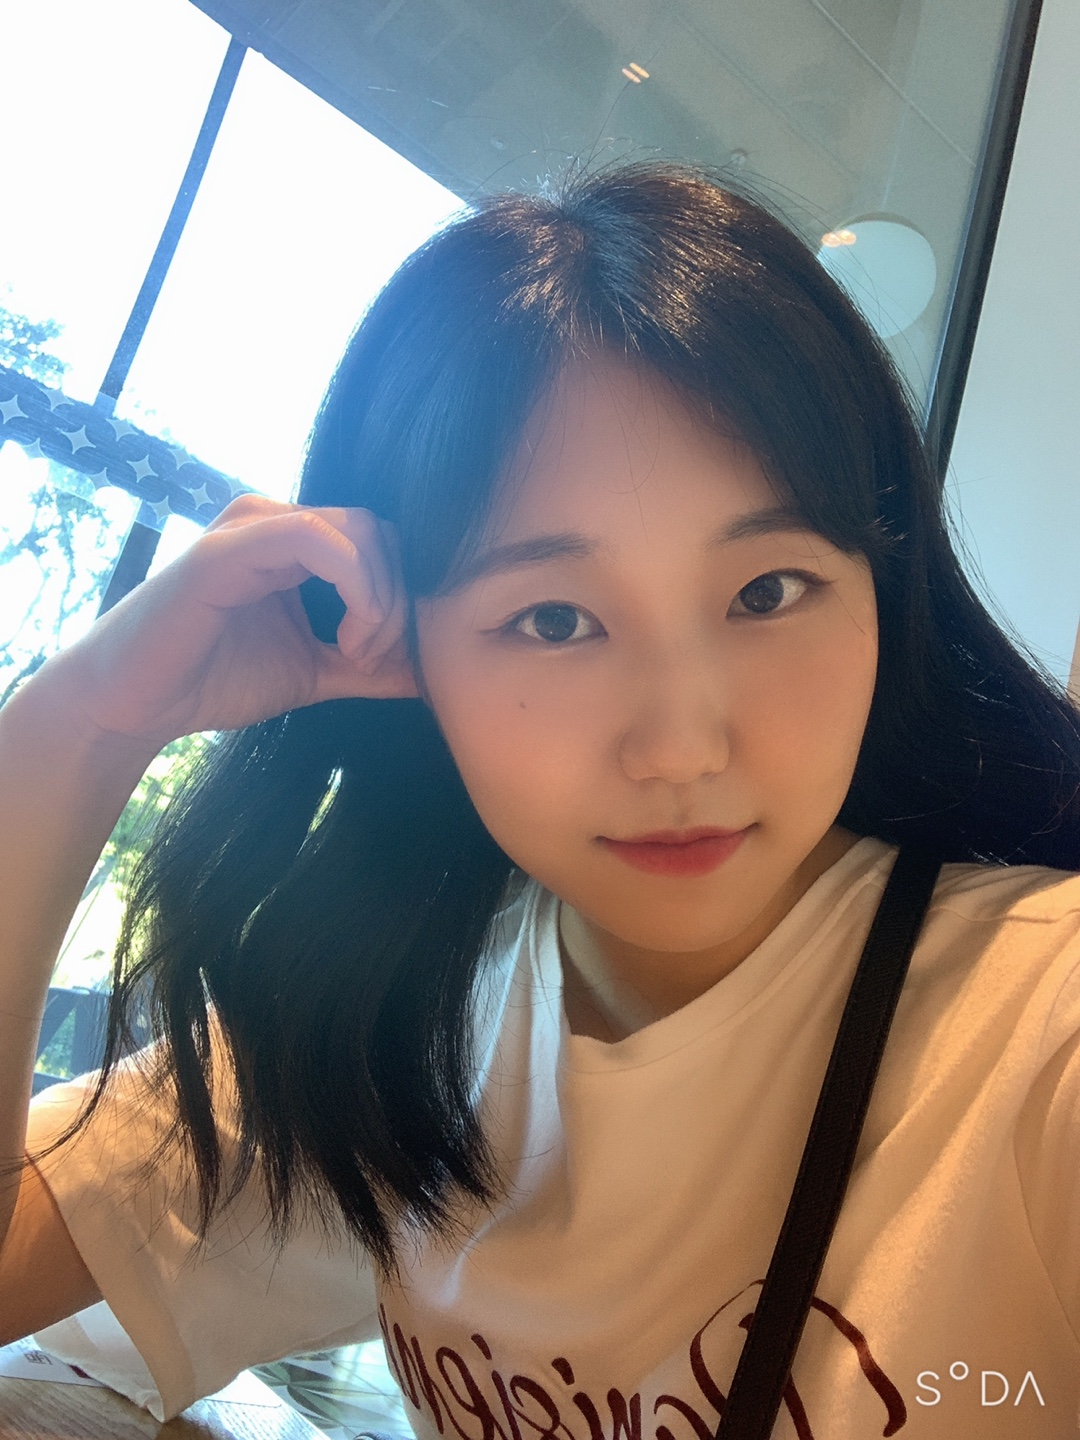
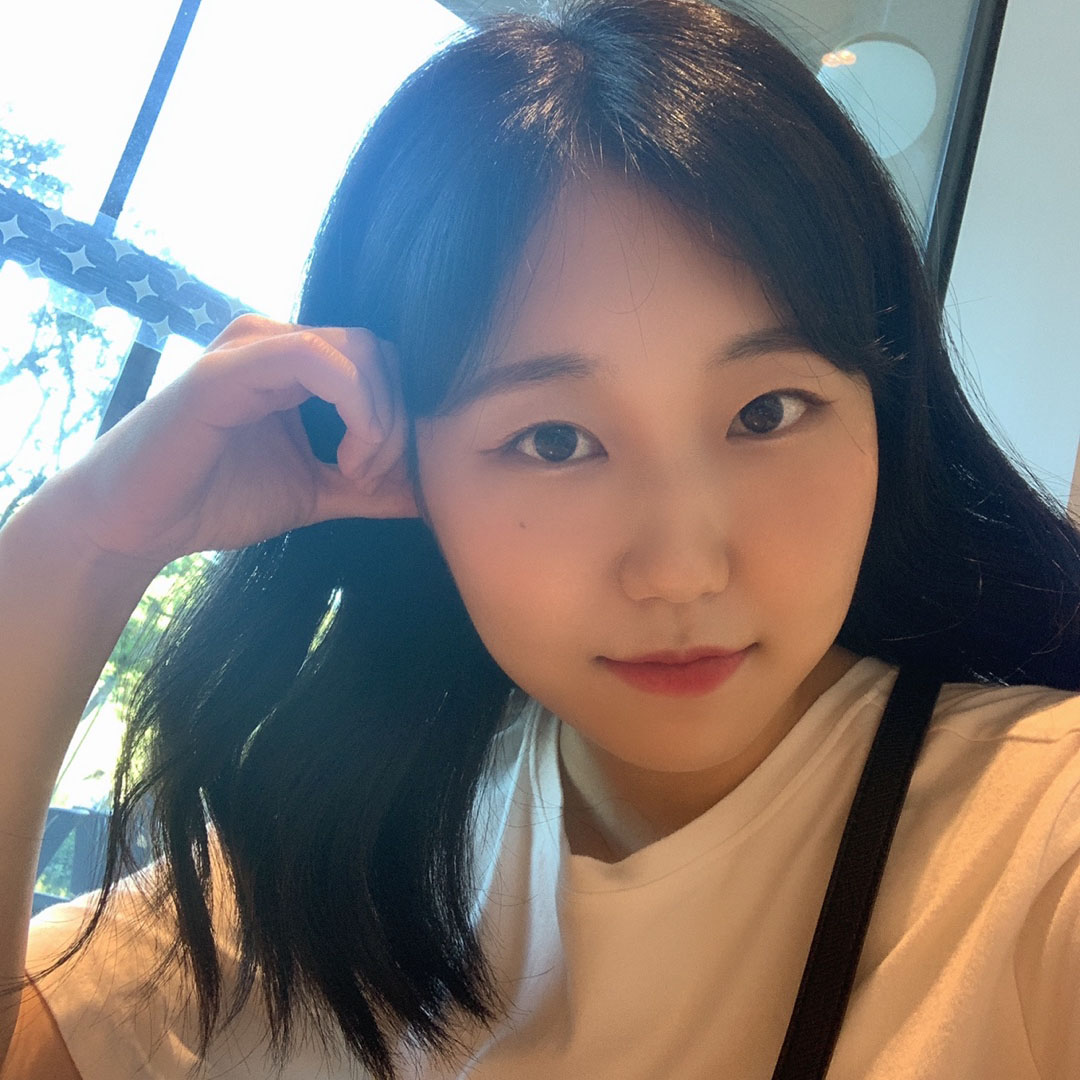
CSS:Home

diff --git a/style.css b/style.css
@@ -51,6 +51,17 @@ ul {
   padding-left: 0;
 }
 
+li {
+  list-style: none;
+}
+
+button {
+  background-color: transparent;
+  cursor: pointer;
+  border: none;
+  outline: none;
+}
+
 /* Typography */
 h1 {
   font-size: var(--font-large);
@@ -114,4 +125,33 @@ p {
 
 .navbar__menu__item:hover {
   background-color: var(--color-dark-pink);
+}
+
+/* Home */
+#home {
+  background: url("imgs/home-background.png") center/cover no-repeat;
+  padding: 40px;
+  text-align: center;
+}
+
+.home__avatar {
+  width: 250px;
+  height: 250px;
+  border-radius: 50%;
+  border: 2px solid var(--color-white);
+}
+
+.home__title,
+.home__description {
+  color: var(--color-white);
+}
+
+.home__contact {
+  font-size: var(--font-regular);
+  font-weight: var(--weight-bold);
+  margin: 24px;
+  padding: 8px 12px;
+  border: 2px solid white;
+  border-radius: var(--size-border-radius);
+  color: var(--color-white);
 }

diff --git a/index.html b/index.html
@@ -42,8 +42,8 @@
     src="imgs/me.jpg" 
     alt="solyi's profile photo" 
     class="home__avatar">
-    <h1 class="class__title">안녕하세요, <br/>저는 김솔이입니다.</h1>
-    <h3 class="class__description">최고의 코더를 꿈꾸는 프론트엔드 주니어개발자 입니다!</h3>
+    <h1 class="home__title">안녕하세요, <br/>저는 김솔이입니다.</h1>
+    <h3 class="home__description">최고의 코더를 꿈꾸는 프론트엔드 주니어개발자 입니다!</h3>
     <button class="home__contact">CONTACT ME</button>
 </section>
 
